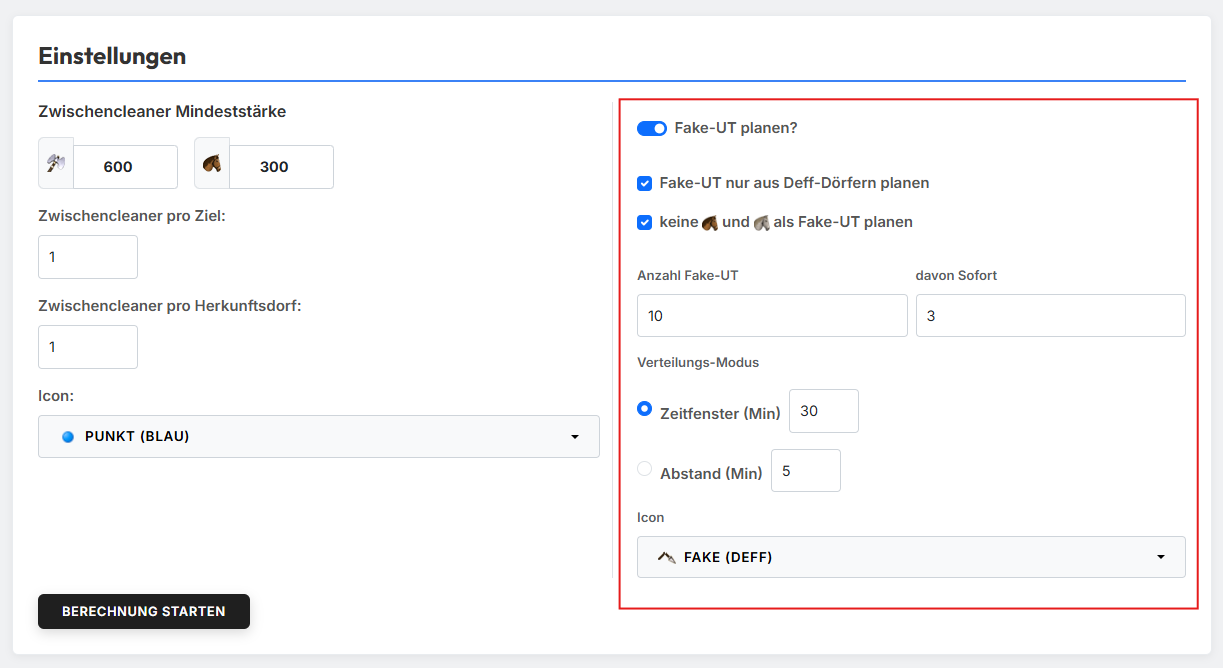
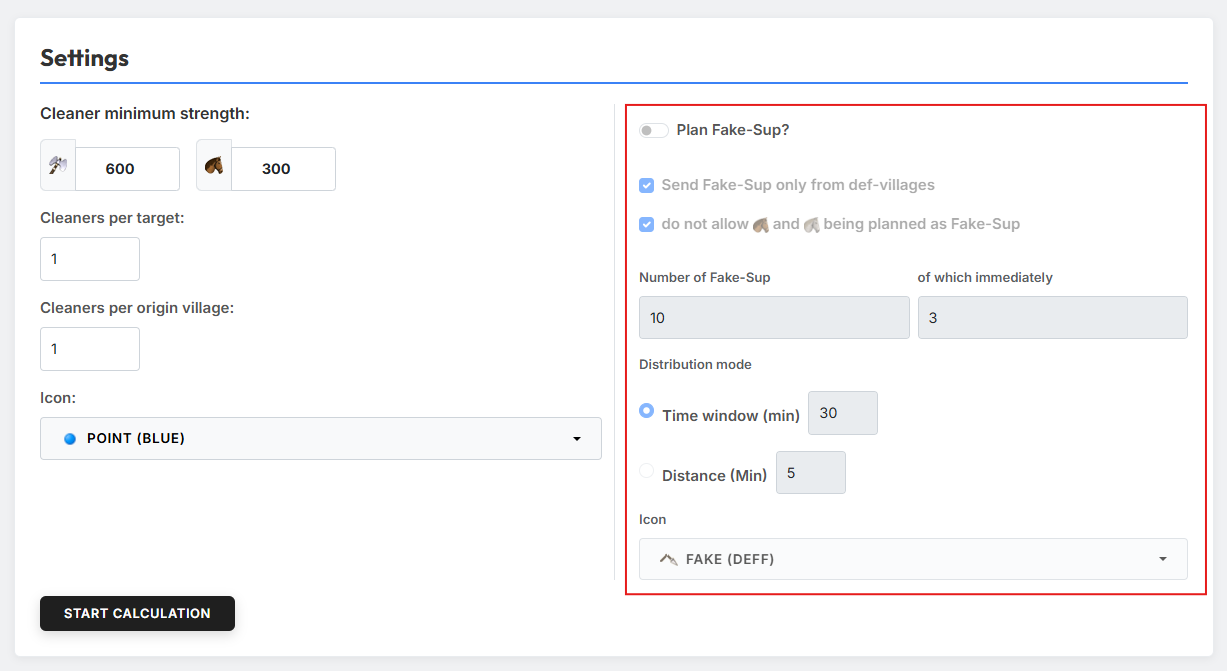
Deployed 832f3e6 with MkDocs version: 1.6.1

diff --git a/en/cleaner-fake-ut/anleitung/index.html b/en/cleaner-fake-ut/anleitung/index.html
@@ -949,10 +949,10 @@
 </li>
         
           <li class="md-nav__item">
-  <a href="#fake-support" class="md-nav__link">
+  <a href="#fake-sup" class="md-nav__link">
     <span class="md-ellipsis">
       
-        Fake support
+        Fake-Sup
       
     </span>
   </a>
@@ -1550,10 +1550,10 @@
 </li>
         
           <li class="md-nav__item">
-  <a href="#fake-support" class="md-nav__link">
+  <a href="#fake-sup" class="md-nav__link">
     <span class="md-ellipsis">
       
-        Fake support
+        Fake-Sup
       
     </span>
   </a>
@@ -1594,15 +1594,14 @@
 
 
 <h1 id="instructions">Instructions<a class="headerlink" href="#instructions" title="Permanent link">¶</a></h1>
-<p>The tool calculates <strong>cleaners</strong> and <strong>fake-support commands</strong> whose launch
+<p>The tool calculates <strong>cleaners</strong> and <strong>Fake-Sup commands</strong> whose launch
 times are placed as close as possible to another command — typically a
-nobleman or train. This lets you add cleaners and fake supports with
-perfect timing alongside an existing snob plan.</p>
+nobleman or train. This lets you add cleaners and Fake-Sup with perfect
+timing alongside an existing snob plan.</p>
 <h2 id="1-import-troops">1. Import troops<a class="headerlink" href="#1-import-troops" title="Permanent link">¶</a></h2>
 <p><a class="glightbox" data-type="image" data-width="auto" data-height="auto" href="../../../assets/cleaner-fake-ut-tool/01_troop_import.png" data-title="Troop import" data-desc-position="bottom"><img alt="Troop import" class="screenshot" src="../../../assets/cleaner-fake-ut-tool/01_troop_import.png"></a></p>
 <p>In the <strong>"Troop data"</strong> section you upload the troops from which the
-cleaners and fake supports should be calculated. There are two ways to do
-this.</p>
+cleaners and Fake-Sup should be calculated. There are two ways to do this.</p>
 <h3 id="option-a-copy-paste">Option A: Copy &amp; Paste<a class="headerlink" href="#option-a-copy-paste" title="Permanent link">¶</a></h3>
 <p>Copy the troops from the in-game troop overview (Ctrl+A, Ctrl+C) and paste
 them into the text field on the left. Use the two radio buttons to define
@@ -1623,11 +1622,11 @@ any time.</p>
 </div>
 <h2 id="2-import-snob-plan">2. Import snob plan<a class="headerlink" href="#2-import-snob-plan" title="Permanent link">¶</a></h2>
 <p><a class="glightbox" data-type="image" data-width="auto" data-height="auto" href="../../../assets/cleaner-fake-ut-tool/02_import_snob_plan.png" data-title="Snob-plan import" data-desc-position="bottom"><img alt="Snob-plan import" class="screenshot" src="../../../assets/cleaner-fake-ut-tool/02_import_snob_plan.png"></a></p>
-<p>In the <strong>"Import snob plan"</strong> section you select a snob plan that was
+<p>In the <strong>"Import Snob-Plan"</strong> section you select a snob plan that was
 already created in tw-utils. The commands from that plan are imported
 automatically — based on them, the tool then calculates the matching
-cleaners and fake supports.</p>
-<p>Click <strong>"Add another plan"</strong> to import several plans one after the other.</p>
+cleaners and Fake-Sup.</p>
+<p>Click <strong>"Add further plans"</strong> to import several plans one after the other.</p>
 <div class="admonition info">
 <p class="admonition-title">View entries</p>
 <p>Use the <strong>"View entries"</strong> button to inspect the imported snob commands
@@ -1641,7 +1640,7 @@ paths:</p>
 <ul>
 <li><strong>Alternative A: Copy &amp; Paste</strong> — paste the Workbench commands directly
   into the text field (e.g. copied from the Workbench export window).</li>
-<li><strong>Alternative B: Upload via TXT file</strong> — upload a TXT file containing
+<li><strong>Alternative B: Upload via TXT-File</strong> — upload a TXT file containing
   Workbench commands; the content is read into the tool automatically.</li>
 </ul>
 <h2 id="3-settings">3. Settings<a class="headerlink" href="#3-settings" title="Permanent link">¶</a></h2>
@@ -1660,30 +1659,30 @@ cavalry to cover the required attack strength.</p>
 <p>You can also configure:</p>
 <ul>
 <li><strong>Cleaners per target</strong> — how many cleaners are planned per target.</li>
-<li><strong>Cleaners per source village</strong> — how many cleaners can be sent from the
-  same source village at most.</li>
+<li><strong>Cleaners per origin village</strong> — how many cleaners can be sent from the
+  same origin village at most.</li>
 <li><strong>Icon</strong> — which icon the cleaner commands should receive.</li>
 </ul>
-<h3 id="fake-support">Fake support<a class="headerlink" href="#fake-support" title="Permanent link">¶</a></h3>
-<p><a class="glightbox" data-type="image" data-width="auto" data-height="auto" href="../../../assets/cleaner-fake-ut-tool/05_settings_fake-sup.png" data-title="Fake-support settings" data-desc-position="bottom"><img alt="Fake-support settings" class="screenshot" src="../../../assets/cleaner-fake-ut-tool/05_settings_fake-sup.png"></a></p>
-<p>Use the <strong>"Plan fake support?"</strong> toggle to activate the fake-support
-calculation. Afterwards, two checkboxes are available:</p>
+<h3 id="fake-sup">Fake-Sup<a class="headerlink" href="#fake-sup" title="Permanent link">¶</a></h3>
+<p><a class="glightbox" data-type="image" data-width="auto" data-height="auto" href="../../../assets/cleaner-fake-ut-tool/05_settings_fake-sup.png" data-title="Fake-Sup settings" data-desc-position="bottom"><img alt="Fake-Sup settings" class="screenshot" src="../../../assets/cleaner-fake-ut-tool/05_settings_fake-sup.png"></a></p>
+<p>Use the <strong>"Plan Fake-Sup?"</strong> toggle to activate the Fake-Sup calculation.
+Afterwards, two checkboxes are available:</p>
 <ul>
-<li><strong>"Plan fake support only from defense villages"</strong> — restricts the
-  source-village selection to purely defensive villages.</li>
-<li><strong>"Don't plan light cavalry or scouts as fake support"</strong> — excludes fast
-  units from being used as fake support.</li>
+<li><strong>"Send Fake-Sup only from def-villages"</strong> — restricts the origin-village
+  selection to purely defensive villages.</li>
+<li><strong>"do not allow light cavalry and scouts being planned as Fake-Sup"</strong> —
+  excludes fast units from being used as Fake-Sup.</li>
 </ul>
 <div class="admonition info">
 <p class="admonition-title">World settings are taken into account</p>
-<p>When planning fake support, the tool takes the world settings around
+<p>When planning Fake-Sup, the tool takes the world settings around
 tribe-internal support into account.</p>
 </div>
-<p>You can also set the <strong>fake-support count</strong> and select the <strong>icon</strong> that is
-assigned to the fake-support commands.</p>
+<p>You can also set the <strong>Number of Fake-Sup</strong> and select the <strong>icon</strong> that is
+assigned to the Fake-Sup commands.</p>
 <h2 id="4-start-the-calculation">4. Start the calculation<a class="headerlink" href="#4-start-the-calculation" title="Permanent link">¶</a></h2>
-<p>Clicking the <strong>"Start calculation"</strong> button runs the calculation of the
-cleaners and fake supports.</p>
+<p>Clicking the <strong>"Start Calculation"</strong> button runs the calculation of the
+cleaners and Fake-Sup.</p>
 
 
 
